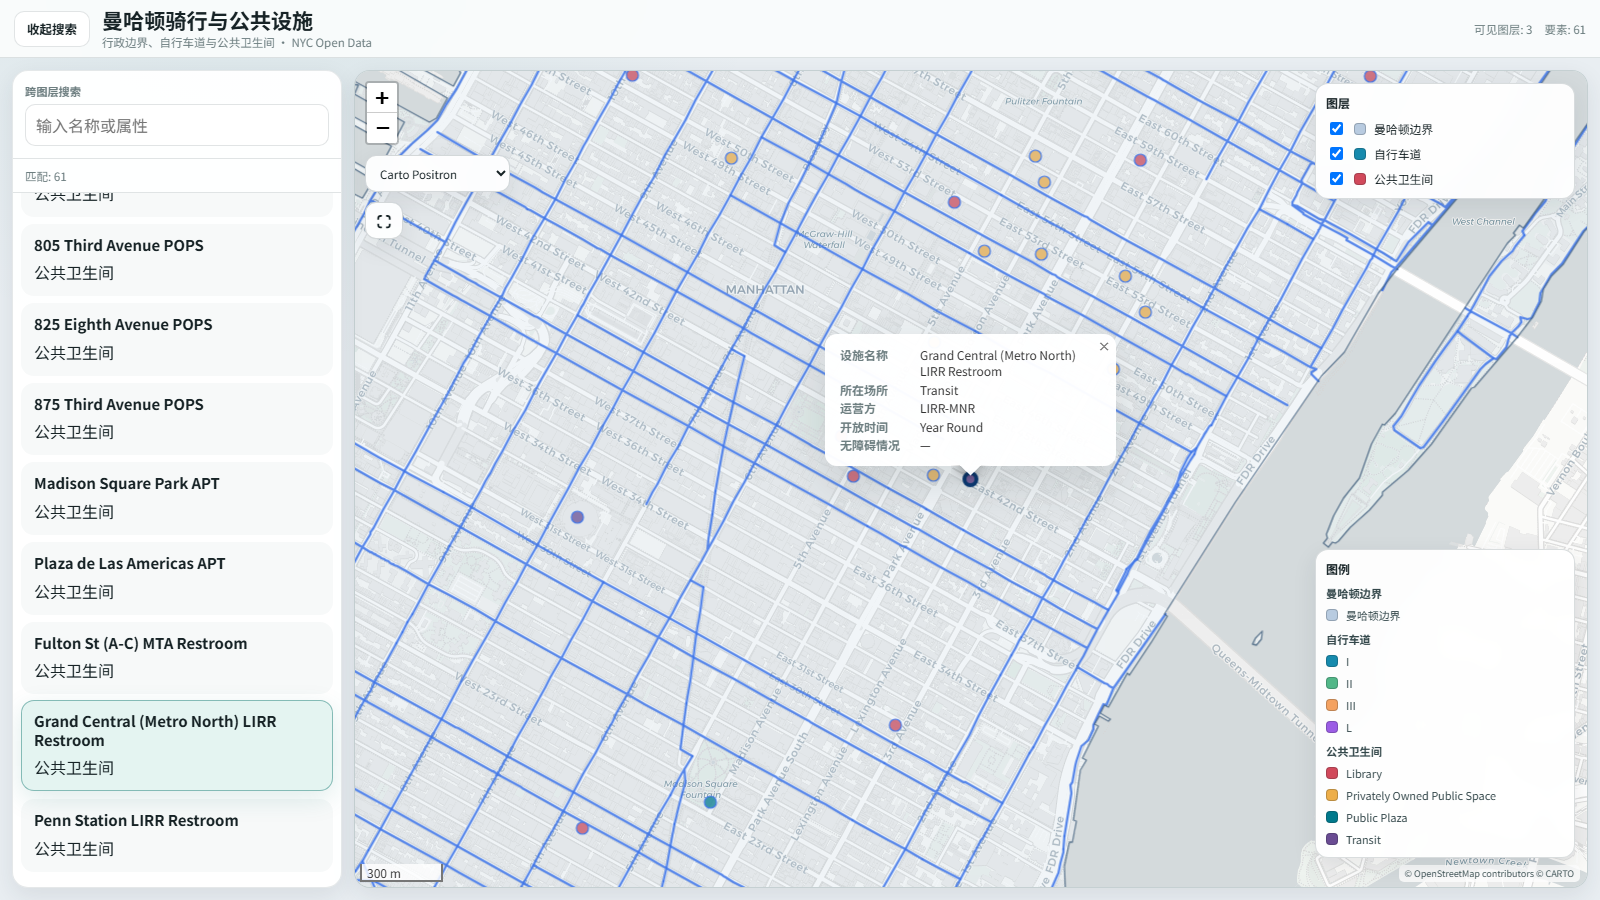
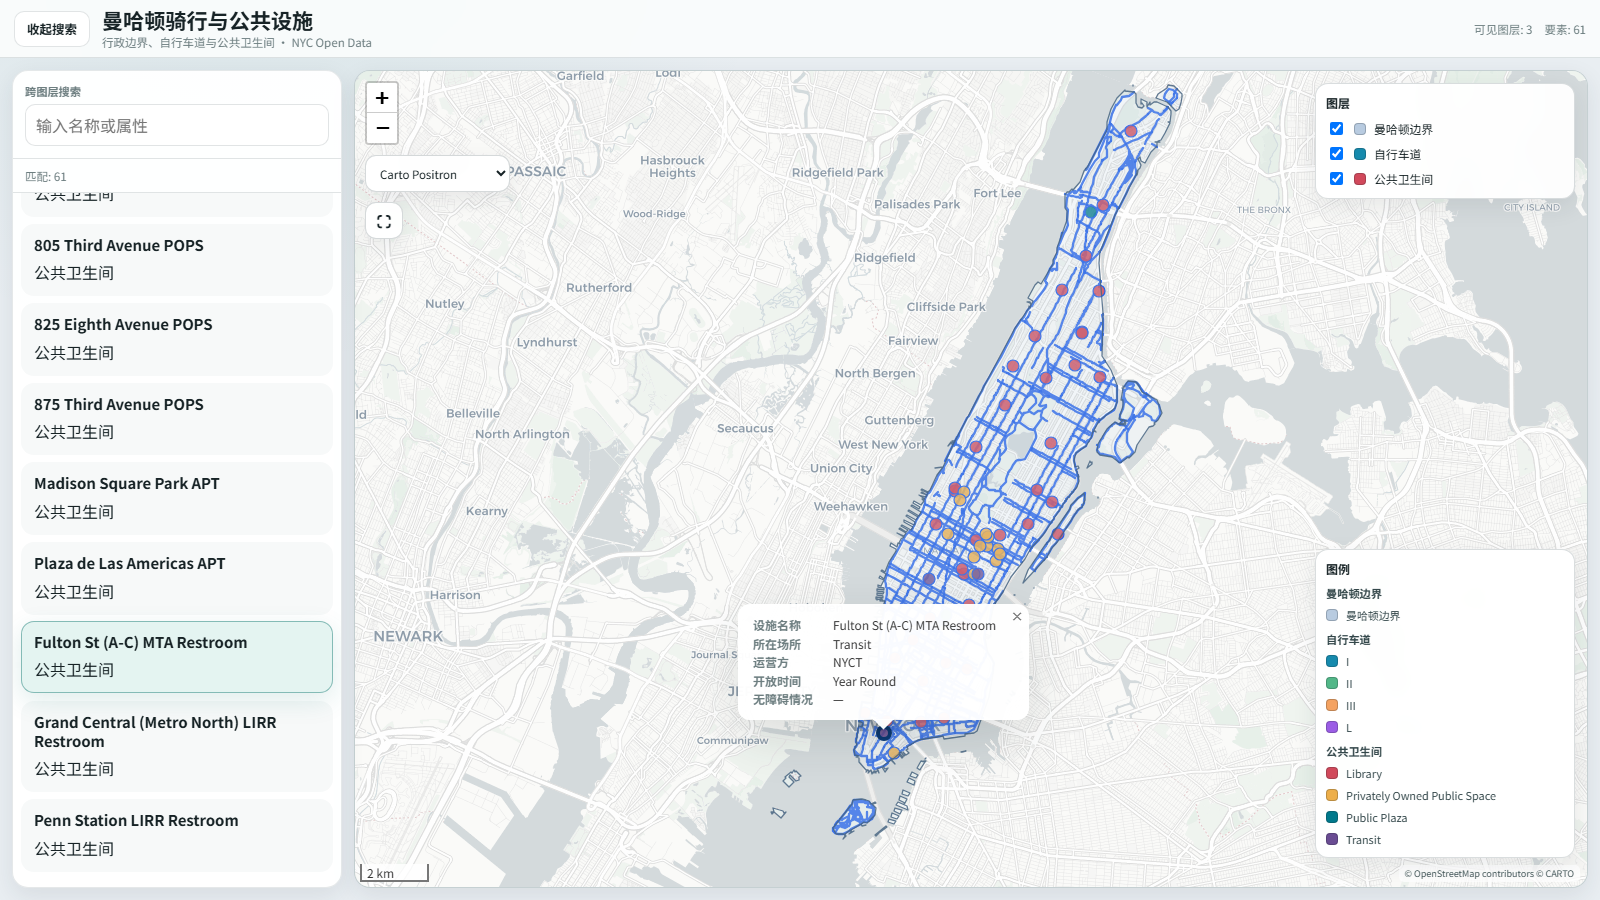
Finalize Atlas UI v0.2 update

diff --git a/scripts/capture_readme_screenshots.py b/scripts/capture_readme_screenshots.py
@@ -64,15 +64,7 @@ def _capture(page, example_name: str, output: Path, work_root: Path) -> None:
         result.click()
         page.locator("#imb-detail:not([hidden])").wait_for(state="visible", timeout=10_000)
     elif example_name == "multilayer":
-        facility = page.get_by_text(
-            "Grand Central (Metro North) LIRR Restroom", exact=True
-        ).first
-        facility.click()
-        page.locator(".leaflet-popup").wait_for(state="visible", timeout=10_000)
-        for _ in range(3):
-            page.locator(".leaflet-control-zoom-in").click()
-            page.wait_for_timeout(600)
-        facility.click()
+        page.get_by_text("Fulton St (A-C) MTA Restroom", exact=True).first.click()
         page.locator(".leaflet-popup").wait_for(state="visible", timeout=10_000)
     else:
         raise ValueError(f"Unsupported README screenshot example: {example_name}")